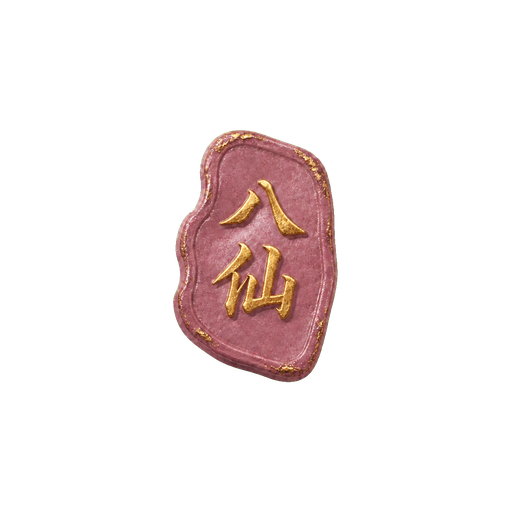
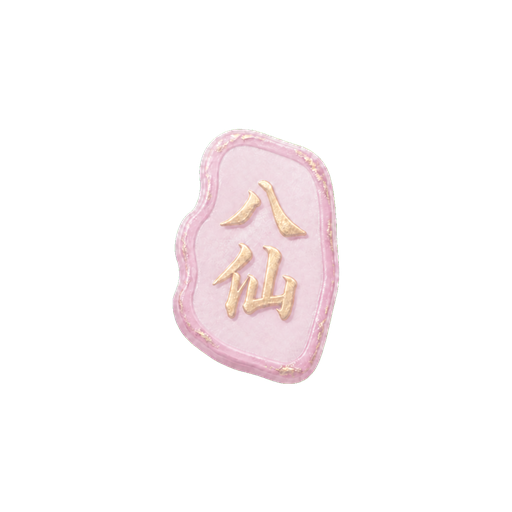
Match He Xiangu seal to bubble pink

Changed region(s): [[0.3125, 0.25, 0.6875, 0.75]]

diff --git a/design/Baxian/restrained-chat-bubble-usage.md b/design/Baxian/restrained-chat-bubble-usage.md
@@ -21,7 +21,7 @@
 - `source/keyposes-chroma.png`：ImageGen 原始洋红底候选姿态板，仅供再生成和追溯。
 - `source/keyposes.png`：去色键后的透明候选姿态板。
 
-何仙姑气泡印章使用 `bubble-elements-v2/he-xiangu-pink-baxian-seal-128.png`。该版本为低饱和藕荷粉不规则窄印，并在统一的 128px 透明画布内保留较大留白；不要通过 CSS 裁掉透明边距或再次放大印章主体。
+何仙姑气泡印章使用 `bubble-elements-v2/he-xiangu-pink-baxian-seal-128.png`。该版本使用与聊天气泡一致的浅粉色（约 `#E4CDDC`）、稍深粉边缘和柔和香槟金字，并在统一的 128px 透明画布内保留较大留白；不要通过 CSS 裁掉透明边距或再次放大印章主体。
 
 ## Codex 必须遵守的接入规则
 
